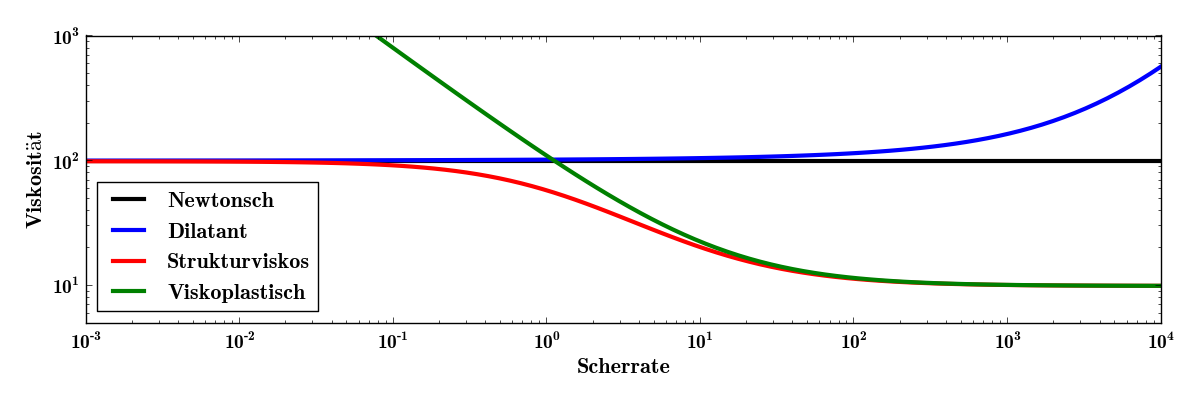
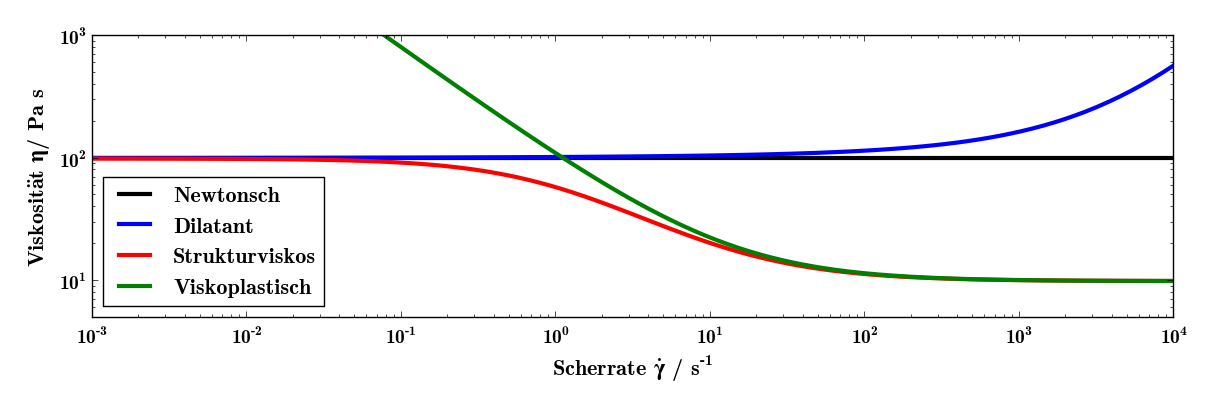
Final Version

Changed region(s): [[0.0, 0.06, 0.9867, 0.93], [0.925, 0.15, 0.9867, 0.24], [0.0, 0.6, 0.0308, 0.66]]

diff --git a/Chapters/auspressgeraet.tex b/Chapters/auspressgeraet.tex
@@ -125,14 +125,14 @@ In den Simulationen wurden der Mischer und die FEP separat behandelt, da dadurch
 
 \subsubsection{Funktionsersatzprüfung}
 Bei der FEP wurden acht Messungen, mit je zwei Mörteln, zwei Kolben"-ge"-schwindig"-kei"-ten und zwei Blendenkonfigurationen durchgeführt. 
-Eine Bei"-spiel"-kon"-fi"-gura"-tion mit Blendendurchmesser $\emptyset_A=10$ mm und $\emptyset_B=4$ mm ist in Abbildung~\ref{fig:fepSimResult} zu sehen.
+Eine Bei"-spiel"-kon"-fi"-gura"-tion mit Blendendurchmesser $\emptyset_A=\SI{10}{mm}$ und $\emptyset_B=\SI{4}{mm}$ ist in Abbildung~\ref{fig:fepSimResult} zu sehen.
 In Tabelle~\ref{fig:fepVergleich} sind die gemessenen und die simulierten Druck"-verluste über die Blende aufgeführt. Simulationen wurden mit den rein scherratenabhängigen Modellen durchgeführt. 
 Der Druckverlust wurde dabei jeweils auf der Seite gemessen, die der eingefüllten Mörtelkomponente entspricht.
 Das bedeutet, dass für die A Komponente die Messstelle auf der A Seite in Abbildung~\ref{fig:FEP_schema} verwendet wurde.
 %
 \begin{table}[tb]
 \noindent\makebox[\textwidth]{%
-    \begin{tabular}{l c c c r r r} 
+    \begin{tabular}{l c c c S S S} 
         \toprule[1.5pt]
         \multicolumn{4}{c}{\textbf{Messaufbau}} &
         \multicolumn{2}{c}{\textbf{Druckverlust}} &
@@ -144,47 +144,47 @@ Das bedeutet, dass für die A Komponente die Messstelle auf der A Seite in Abbil
      \cmidrule(lr){1-4}
      \cmidrule(lr){5-6}
      \cmidrule(lr){7-7}
-    \multirow{4}{*}{\moertelA{} A} &  \multirow{2}{*}{4} & \multirow{2}{*}{2} & 2.1 & 0.3 & 0.38  & 28\\
+     \multirow{4}{*}{\moertelA{} A} &  \multirow{2}{*}{\num{4}} & \multirow{2}{*}{\num{2}} & \num{2.1} & 0.3 & 0.38  & 28\\
                                                     %\cline{4-7}
-                              &                     &                    & 4   & 0.43 & 0.5  & 17\\
+                                                    &                     &                    & \num{4}   & 0.43 & 0.5  & 17\\
                               %\cline{2-7}
                               \addlinespace
-                              & \multirow{2}{*}{10} & \multirow{2}{*}{4} & 2.1 & 0.28 & 0.23 & 16\\
+                              & \multirow{2}{*}{\num{10}} & \multirow{2}{*}{\num{4}} & \num{2.1} & 0.28 & 0.23 & 16\\
                                                     %\cline{4-7}
-                              &                     &                    & 4   & 0.32 & 0.29 &  10\\
+                                                    &                     &                    & \num{4}   & 0.32 & 0.29 &  10\\
      \cmidrule(lr){2-4}
      \cmidrule(lr){5-6}
      \cmidrule(lr){7-7}
-    \multirow{4}{*}{\moertelA{} B} &  \multirow{2}{*}{4} & \multirow{2}{*}{2} & 2.1 & 0.77 & 0.38 & 51\\
+     \multirow{4}{*}{\moertelA{} B} &  \multirow{2}{*}{\num{4}} & \multirow{2}{*}{\num{2}} & \num{2.1} & 0.77 & 0.38 & 51\\
                                                     %\cline{4-7}
-                              &                     &                    & 4   & 0.89 & 0.45 & 50\\
+                                                    &                     &                    & \num{4}   & 0.89 & 0.45 & 50\\
                               %\cline{2-7}
                               \addlinespace
-                              & \multirow{2}{*}{10} & \multirow{2}{*}{4} & 2.1 & 0.53 & 0.29 & 45\\
+                              & \multirow{2}{*}{\num{10}} & \multirow{2}{*}{\num{4}} & \num{2.1} & 0.53 & 0.29 & 45\\
                                                     %\cline{4-7}
-                              &                     &                    & 4   & 0.58 & 0.33 & 42\\
+                                                    &                     &                    & \num{4}   & 0.58 & 0.33 & 42\\
      \cmidrule(lr){2-4}
      \cmidrule(lr){5-6}
      \cmidrule(lr){7-7}
-    \multirow{4}{*}{\moertelB{} A} &  \multirow{2}{*}{4} & \multirow{2}{*}{2}  & 2.1 & 0.37 & 0.26 &31\\
+     \multirow{4}{*}{\moertelB{} A} &  \multirow{2}{*}{\num{4}} & \multirow{2}{*}{\num{2}}  & \num{2.1} & 0.37 & 0.26 &31\\
                                                     %\cline{4-7}
-                              &                     &                    & 4   & 0.48 & 0.35 &26\\
+                                                    &                     &                    & \num{4}   & 0.48 & 0.35 &26\\
                               %\cline{2-7}
                               \addlinespace
-                              & \multirow{2}{*}{10} & \multirow{2}{*}{4} & 2.1 & 0.24 & 0.14 &40\\
+                              & \multirow{2}{*}{\num{10}} & \multirow{2}{*}{\num{4}} & \num{2.1} & 0.24 & 0.14 &40\\
                                                     %\cline{4-7}
-                              &                     &                    & 4   & 0.33 & 0.18 &44\\
+                                                    &                     &                    & \num{4}   & 0.33 & 0.18 &44\\
      \cmidrule(lr){2-4}
      \cmidrule(lr){5-6}
      \cmidrule(lr){7-7}
-    \multirow{4}{*}{\moertelB{} B} &  \multirow{2}{*}{4} & \multirow{2}{*}{2}  & 2.1 & 0.41 & 0.31 &25\\
+     \multirow{4}{*}{\moertelB{} B} &  \multirow{2}{*}{\num{4}} & \multirow{2}{*}{\num{2}}  & \num{2.1} & 0.41 & 0.31 &25\\
                                                     %\cline{4-7}
-                              &                     &                    & 4   & 0.51 & 0.40 &22\\
+                                                    &                     &                    & \num{4}   & 0.51 & 0.40 &22\\
                               %\cline{2-7}
                               \addlinespace
-                              & \multirow{2}{*}{10} & \multirow{2}{*}{4} & 2.1 & 0.44 & 0.21 &53\\
+                              & \multirow{2}{*}{\num{10}} & \multirow{2}{*}{\num{4}} & \num{2.1} & 0.44 & 0.21 &53\\
                                                     %\cline{4-7}
-                              &                     &                    & 4   & 0.48 & 0.23 &51\\
+                                                    &                     &                    & \num{4}   & 0.48 & 0.23 &51\\
     \bottomrule[1.5pt]
 \end{tabular}}
     \caption{Die gemessenen und simulierten Konfigurationen der FEP mit den rein scherratenabhängigen Modellen. Der Druck wurde auf der Seite der entsprechenden Mörtelkomponente gemessen.}
@@ -196,7 +196,7 @@ Das bedeutet, dass für die A Komponente die Messstelle auf der A Seite in Abbil
     \rotatebox{90}{
     \includegraphics[width=0.5\textwidth]{figures/fepSim.PNG}
     }
-    \caption{Eine Simulation der Funktionsersatzprüfung. Unten die Druckverteilung mit eingezeichneten Stromlinien, oben die variable Vikosität. Schön zu sehen ist das blockartige Strömen des Mörtels im Einlaufkolben anhand des grossen roten Gebietes hoher Viskosität und die abrupte Abnahme der Viskosität in den Blenden.}
+    \caption{Eine Simulation der Funktionsersatzprüfung. Unten die Druckverteilung (blau: tief, rot: hoch) mit eingezeichneten Stromlinien, oben die variable Vikosität. Schön zu sehen ist das blockartige Strömen des Mörtels im Einlaufkolben anhand des grossen roten Gebietes hoher Viskosität und die abrupte Abnahme der Viskosität in den Blenden.}
     \label{fig:fepSimResult}
 \end{figure}
 
@@ -216,7 +216,7 @@ In Tabelle~\ref{fig:mischerVergleich} sind die gemessenen und die simulierten Dr
 %
 \begin{table}[tb]
 \noindent\makebox[\textwidth]{%
-    \begin{tabular}{l c r r r} 
+    \begin{tabular}{l c S S S} 
         \toprule[1.5pt]
         \multicolumn{2}{c}{\textbf{Messaufbau}} &
         \multicolumn{2}{c}{\textbf{Druckverlust}} & 
@@ -226,30 +226,30 @@ In Tabelle~\ref{fig:mischerVergleich} sind die gemessenen und die simulierten Dr
     \cmidrule(lr){1-2}
     \cmidrule(lr){3-4}
     \cmidrule(lr){5-5}
-    \multirow{2}{*}{\moertelA{} A}  & 2.1 & 4.48 & 4.26 & 5\\
+    \multirow{2}{*}{\moertelA{} A}  & \num{2.1} & 4.48 & 4.26 & 5\\
                                %\cline{2-5}
-                               & 4   & 6.86 & 6.09 &11\\
+                               & \num{4}   & 6.86 & 6.09 &11\\
     %\cmidrule(lr){1-2}
     %\cmidrule(lr){3-4}
     %\cmidrule(lr){5-5}
     \addlinespace
-    \multirow{2}{*}{\moertelA{} B}  & 2.1 & 1.60 & 1.95 &22\\
+    \multirow{2}{*}{\moertelA{} B}  & \num{2.1} & 1.60 & 1.95 &22\\
                                %\cline{2-5}
-                               & 4   & 2.16 & 2.48 &15\\
+                               & \num{4}   & 2.16 & 2.48 &15\\
     %\cmidrule(lr){1-2}
     %\cmidrule(lr){3-4}
     %\cmidrule(lr){5-5}
     \addlinespace
-    \multirow{2}{*}{\moertelB{} A}   & 2.1 & 2.43 & 2.98 &23\\
+    \multirow{2}{*}{\moertelB{} A}   & \num{2.1} & 2.43 & 2.98 &23\\
                                %\cline{2-5}
-                               & 4   & 3.95 & 4.49 &14\\
+                               & \num{4}   & 3.95 & 4.49 &14\\
     %\cmidrule(lr){1-2}
     %\cmidrule(lr){3-4}
     %\cmidrule(lr){5-5}
     \addlinespace
-    \multirow{2}{*}{\moertelB{} B}   & 2.1 & 1.20 & 1.49 &24\\
+    \multirow{2}{*}{\moertelB{} B}   & \num{2.1} & 1.20 & 1.49 &24\\
                                %\cline{2-5}
-                               & 4   & 1.84 & 2.13 &16\\
+                               & \num{4}   & 1.84 & 2.13 &16\\
     \bottomrule[1.5pt]
 \end{tabular}}
     \caption{Die gemessenen und simulierten Konfigurationen des Mischers mit den rein scherratenabhängigen Modellen. Die angegebene Einlassgeschwindigkeit entspricht dabei der Kolbengeschwindigkeit in der FEP.}
@@ -265,3 +265,4 @@ In Tabelle~\ref{fig:mischerVergleich} sind die gemessenen und die simulierten Dr
 %
 Die Abweichungen bei der Simulation des Mi\-schers sind, relativ gesehen, deutlich geringer als beim Druckverlust über die Blen\-den in der FEP. Einer der Gründe dafür ist, dass die Scherraten nun in einem Bereich sind, der auch vermessen wurden. 
 Zudem ist die Messunsicherheit bei diesen Messungen deutlich geringer.
+%Die Gründe für die verbleibenden Abweichungen konnten nicht restlos geklärt werden. Mögliche Ursachen sind die Einflüsse von Temperatur und Lagerdauer auf die viskosen Eigenschaften der Mörtel.

diff --git a/Chapters/modelparameter.tex b/Chapters/modelparameter.tex
@@ -133,7 +133,7 @@ Dieser Vorgang ist in Abbildung~\ref{fig:korrekturSim} verdeutlicht.
         \node[block] (init) {Messung};
         \node[block, below of=init] (cfd) {Simulation};
         \path (init) -- (cfd) node[midway] (m) {};
-        \node[cloud, right of=m] (d) {d};
+        \node[cloud, right of=m] (d) {$\Delta$M};
         \node[cloud, left of=m] (omeg) {$\omega$};
         \node[block, text width=10em, node distance = 4cm, right of=d] (opt) {Optimierung};
         %
@@ -156,10 +156,8 @@ Beim Platte-Platte Rheometer handelt es sich um eine rotationssymmetrische Geome
     %\includegraphics[width=\textwidth]{figures/plattenRheoFullCircAnnot.png}
     \subfloat[Ohne Ring]{
     \begin{tikzpicture}[scale=0.7]
-        \draw[fill=lightgray] (0,0) -- ++ (5,0) -- ++ (0,2) -- ++ (-5,0) -- ++ (0,-2);
-        \draw[ultra thick,<->] (1,0) -- (0,0) -- (0,1);
-        \node[left] at (0,1) {z};
-        \node[below] at (1,0) {r};
+        \draw[fill=lightgray] (0,0) rectangle (5,2);
+        \draw[ultra thick,<->] (1,0) node[below] {r} -| (0,1) node[left] {z};
         \node[below] at (3,0) {$\u=0$};
         \node[below] at (5,0) {R};
         \node[right] at (5,1) {$\frac{\partial\u}{\partial r}=0$};
@@ -169,13 +167,9 @@ Beim Platte-Platte Rheometer handelt es sich um eine rotationssymmetrische Geome
     }
     \subfloat[Mit Ring]{
     \begin{tikzpicture}[scale=0.7]
-        \path[fill=lightgray] (0,0) -- ++ (5,0) -- ++ (0,2) -- ++ (-5,0) -- ++ (0,-2);
-        \draw[fill=lightgray] (5,0) -- ++ (1,0) -- ++ (0,2) -- ++ (-1,0) ;
-        \draw (0,0) -- ++ (5,0) -- ++ (0,2) -- ++ (-5,0) -- ++ (0,-2);
-        %\draw (6,0) -- (6,2);
-        \draw[ultra thick,<->] (1,0) -- (0,0) -- (0,1);
-        \node[left] at (0,1) {z};
-        \node[below] at (1,0) {r};
+        \draw[fill=lightgray] (0,0) rectangle (6,2);
+        \draw[gray, dashed] (5,0) -- ++ (0,2);
+        \draw[ultra thick,<->] (1,0) node[below] {r} -| (0,1) node[left] {z};
         \node[below] at (3,0) {$\u=0$};
         \node[below] at (5,0) {R};
         \node[below right] at (6,0) {R+S};
@@ -398,7 +392,7 @@ Dabei wurden sowohl Simulationen mit dem rein scherratenabhängigen Herschel-Bul
 
 \paragraph{Scherratenabhängiges Modell}
 Die Simulationen mit dem scherratenabhängigen Modell wurden aufgrund der rotationssymmetrischen Geometrie ebenfalls nur für ein Segment von fünf Grad des Rheometers durchgeführt, die Randbedingungen waren dabei eine konstante Geschwindigkeit am Einlass, konstanter Druck am Auslass und Haftbedingungen an den Wänden. 
-Das verwendete Netz wurde so skaliert, dass die Auflösung nahe an der Einlassdüse zur Kapillare sehr fein aufgelöst ist, während in Regionen die weit von der Düse entfernt sind, eine eher grobe Auflösung verwendet wurde. 
+Das verwendete Netz, erstellt mit \codeemph{blockMesh}, wurde so skaliert, dass die Auflösung nahe an der Einlassdüse zur Kapillare sehr fein aufgelöst ist, während in Regionen die weit von der Düse entfernt sind, eine eher grobe Auflösung verwendet wurde. 
 In Abbildung~\ref{fig:kapRheoSim} sind diese Informationen dargestellt, die Resultate sind in Tabelle \ref{fig:kapRheoResults} aufgeführt.\\
 Für die beiden \moertelB{} Komponenten und die \moertelA{} A Komponente konnte eine gute Über"-einstimmung mit den Messwerten mit unter 10\% Ab\-wei\-chung erreicht werden. Beim \moertelA{} B Mörtel konnte diese Genauigkeit nicht erreicht werden. Ein möglicher Grund ist die schlechtere Qualität des Parameterfits für diesen Mörtel.
 %
@@ -464,7 +458,7 @@ Für die beiden \moertelB{} Komponenten und die \moertelA{} A Komponente konnte 
                                   & 1.07 & 1.46 & 1.53 &  4.74\\
                                   & 2.67 & 2.42 & 2.54 &  4.53\\
                                   & 6.02 & 4.22 & 4.09 &  3.13\\
-                                  & 13.4 & 6.27 & 6.59 &  4.76\\
+                                  & 13.37 & 6.27 & 6.59 &  4.76\\
         \cmidrule(lr){1-2}
         \cmidrule(lr){3-4}
         \cmidrule(lr){5-5}
@@ -496,7 +490,7 @@ Für die beiden \moertelB{} Komponenten und die \moertelA{} A Komponente konnte 
 \end{table}
 
 \paragraph{Viskoelastisches Modell}
-Für die viskoelastischen Simulationen konnte nicht nur ein Segment des Kapillarrheometers verwendet werden, da die 'wedge'-Randbedingung \footnote{Randbedingung, die von \openfoam{} für Front und Rückseite einer rotationssymmetrischen Geometrie verwendet wird.} von \openfoam{} die Resultate verfälschte. Daher wurde ein Netz des ganzen Rheometers erstellt und die Simulationen damit durchgeführt.
+Für die viskoelastischen Simulationen konnte nicht nur ein Segment des Kapillarrheometers verwendet werden, da die 'wedge'-Randbedingung \footnote{Randbedingung, die von \openfoam{} für Front und Rückseite einer rotationssymmetrischen Geometrie verwendet wird.} von \openfoam{} die Resultate verfälschte. Daher wurde mit \codeemph{blockMesh} ein Netz des ganzen Rheometers erstellt und die Simulationen damit durchgeführt.
 
 Der für viskoelastische Fluide typische Wirbel bei einer plötzlichen Verengung der Fliessgeometrie \cite{Evans198611} konnte so erfolgreich nachgebildet werden. Abbildung~\ref{kapRheoVisco} zeigt das Auftreten dieses Wirbels in einer Kapillarrheometer Simulation.
 %
@@ -510,7 +504,7 @@ Der für viskoelastische Fluide typische Wirbel bei einer plötzlichen Verengung
     \includegraphics[width=\textwidth]{figures/kapRheoSimTau.PNG}
     \label{fig:kapRheoVisco:subB}
     }
-    \caption{Viskoelastische Simulation des Kapillarrheometers. Die Vergrösserung in \subref{fig:kapRheoVisco:subA} zeigt den sich bildenden Wirbel in der laminaren Strömung, der auf die Visko\-elastizität zurückzuführen ist. Das Rheometer ist nach dem Druckverlauf eingefärbt (blau: tief, rot: hoch). Abbildung~\subref{fig:kapRheoVisco:subB} ist nach der berechneten Schubspannung eingefärbt. In der Kapillare nimmt sie in radialer Richtun zu, beim Einlass bildet sich ein Gebiet erhöhter Schubspannung durch die Verengung des Querschnittes.}
+    \caption{Viskoelastische Simulation des Kapillarrheometers. Die Vergrösserung in \subref{fig:kapRheoVisco:subA} zeigt den sich bildenden Wirbel in der laminaren Strömung, der auf die Visko\-elastizität zurückzuführen ist. Das Rheometer ist nach dem Druckverlauf eingefärbt (blau: tief, rot: hoch). Abbildung~\subref{fig:kapRheoVisco:subB} ist nach der berechneten Schubspannung eingefärbt (blau: tief, rot: hoch). In der Kapillare nimmt sie in radialer Richtung nach aussen zu, am Einlass in die Drossel bildet sich ein Gebiet erhöhter Schubspannung durch die Verengung des Querschnittes.}
     \label{kapRheoVisco}
 \end{figure}
 %

diff --git a/Chapters/outlook.tex b/Chapters/outlook.tex
@@ -1,29 +1,27 @@
 \section{Zusammenfassung und Ausblick}
 \label{Kapitel:Outlook}
-In dieser Arbeit wurden zwei von der Firma Hilti AG in der Befestigungs"-technik verwendete Mörtel mittels numerischer Simulationen untersucht.
-Ziel der Arbeit war, die Fliess"-vorgänge dieser rheologisch komplexen Mörtel mithilfe der Simulationssoftware \openfoam{} zu modellieren. Die Ergebnisse sollen das für die Produktentwicklung entscheidende Verständnis dieser Fliess"-vorgänge verbessern.
+In dieser Arbeit wurden zwei von der Firma Hilti AG in der Befestigungs"-technik hergestellte Mörtel mittels numerischer Simulationen untersucht.
+Ziel der Arbeit war, die Fliess"-vorgänge dieser rheologisch komplexen Mörtel mithilfe der freien Simulationssoftware \openfoam{} abzubilden. Die Er"-gebnisse sollen das für die Produktentwicklung entscheidende Verständnis dieser Fliess"-vorgänge weiter verbessern.
 
 Die untersuchten Mörtel zeigen dabei ein stark nicht-Newtonsches Verhalten.
 Dies äussert sich sowohl in einer Scherverdünnung (Struktur"-vis"-ko"-si"-tät), als auch in viskoelastischen Phänomenen. Zur Modellierung dieser Eigenschaften wurden die empirischen Modelle Herschel-Bulkley, Carreau-Yasuda und White-Metzner verwendet.
-Die grundlegenden Gleichungen, bestehend aus den Erhaltungssätzen für Masse und Impuls und den aus den Modellen resultierenden Schliessungsansätzen, wurden numerisch gelöst. Die benötigten Ergänzungen sowie die speziellen rheologischen Schliessungsansätze wurden in \openfoam{} implementiert.
-%Der Firma Hilti steht mit den programmierten Routinen ein Grundgerüst zur Verfügung, mit dem sie in Zukunft weitere Materialmodelle und -para"-me"-ter verwenden kann, um die Fliessvorgänge in ihrem Auspressgerät noch besser zu verstehen.
+Die grundlegenden Gleichungen, bestehend aus den Erhaltungssätzen für Masse und Impuls und den aus den Modellen resultierenden Schliessungsansätzen, wurden numerisch mit \openfoam{} gelöst. Die benötigten Ergänzungen sowie die speziellen rheo"-logischen Schliessungsansätze wurden dort implementiert.
 
 Die für die Modelle notwendigen Materialparameter wurden mithilfe eines in Python implementierten Optimierungsverfahrens an Messdaten angepasst. Diese Daten stammen aus zwei verschiedenen Rheometern: Einem Platte-Platte Rheometer und einem Kapillarrheometer.
 Ein systematischer Fehler in den Platte-Platte Rheometerdaten durch einen um den Scherspalt herum montierten Ring wurde durch eine entsprechende Korrektursimulation ausgeglichen.
-Die Verifizierung der verwendeten Modelle und der berechneten Parameter geschah mittels Simulation des Kapillarrheometers, bei der eine gute Übereinstimmung mit der Messung gefunden wurde.
-Dabei wurde auch festgestellt, dass der Einfluss der Viskoelastizität minimal ist und andere Faktoren wie Alter und Produktionscharge die viskosen Eigenschaften des Mörtels weit stärker beeinflussen. 
+Die Verifizierung der verwendeten Modelle und der berechneten Parameter geschah mittels Simulation des Kapillarrheometers. Dies lieferte eine gute Übereinstimmung mit der Messung.
+Dabei wurde auch festgestellt, dass der Einfluss der Viskoelastizität minimal ist und andere Faktoren wie Temperatur und Lagerdauer die viskosen Eigenschaften des Mörtels weit stärker beeinflussen. 
 Aufgrund des starken Anstieges der Rechenzeit bei der Verwendung des viskoelastischen Modells wurde dieses deshalb bei der Validierung in Kapitel~\ref{Kapitel:Auspressgeraet} nicht mehr verwendet.
 
 Die Validierung geschah anhand eines anwendungsnahen Strömungsversuches. Dabei wurde eine vereinfachte Nachbildung des realen Auspressgerätes für die Hilti Mörtel gebaut und vermessen, um Einflüsse, die ihren Ursprung nicht in Eigenschaften des Fluids haben, auszuschliessen.
-Die Geo\-me\-trie dieser Funktionsersatzprüfung und der daran anschliessende Mischer wurde im CAD nachgebildet und für die Strömungssimulation mit ICEM Tetra vernetzt.
-
+Die Geo\-me\-trie dieser Funktionsersatzprüfung und der daran anschliessende Mischer wurden im CAD nachgebildet und für die Strömungssimulation mit ICEM Tetra vernetzt.
 Als beobachtete Grösse wurde der Druckverlust über die Blenden in der FEP und über den Mischer verwendet.
-Die Resultate in der FEP zeigen ein tendenziell richtiges Verhalten, eine genaue Nachbildung des Druckunterschiedes konnte aber nicht erreicht werden. 
-Ein möglicher Grund für die festgestellten Abweichungen zwischen Simulation und Messung ist die hohe Unsicherheit in der Druckverlustmessung über die Blende. Dafür spricht auch die deutlich kleinere Abweichung bei der Simulation des Mischers.
-%Weiter wurde im Laufe der Messungen festgestellt, dass die viskosen Eigenschaften der vermessenen Mörtel stark beinflusst werden von Alter, Temperatur und Produktionscharge.
+
+Die Resultate in der FEP zeigen qualitativ das richtige Verhalten. Der Druckverlust in der Funktionsersatzprüfung konnte jedoch nicht zufriedenstellend abgebildet werden. 
+Ein möglicher Grund für die festgestellten Abwei"-chungen zwischen Simulation und Messung ist die hohe Unsicherheit in der Druckverlustmessung über die Blende. Dafür spricht auch die deutlich kleinere Abweichung bei der Simulation des Mischers.
 Nicht weiter untersucht wurden in dieser Arbeit die thixotropen Eigenschaften der vermessenen Mörtel. 
-Diese können ebenfalls einen Einfluss auf die Messergebnisse haben, auch wenn im Messaufbau versucht wurde diese Einflüsse zu minimieren.
+Diese können ebenfalls einen Einfluss auf die Messergebnisse haben, auch wenn im Messaufbau versucht wurde diese Einflüsse zu mi\-ni\-mie\-ren.
 Eine mögliche Erweiterung dieser Arbeit ist deshalb die Berücksichtigung von thixotropen Effekten.
 
-Falls trotz des kleinen Einflusses auf den Druckunterschied beschlossen wird, das viskoelastische Modell zu verwenden, muss der verwendete Algorithmus im Hinblick auf die Effizienz und Stabilität noch optimiert werden. Die benötigte Anzahl an Iterationsschritten ist zu gross, um Parameterstudien durchführen zu können.
+Falls trotz des kleinen Einflusses auf den Druckunterschied beschlossen wird, das viskoelastische Modell zu verwenden, muss der verwendete Algorithmus im Hinblick auf Effizienz und Stabilität noch optimiert werden. Die benötigte Anzahl an Iterationsschritten ist zu gross, um Parameterstudien durchführen zu können.
 

diff --git a/Chapters/implementation.tex b/Chapters/implementation.tex
@@ -59,19 +59,18 @@ In transienten Simulationen kann keine Relaxation angewendet werden. Um die Stab
 %
 \subsection{Konvergenzkriterien}
 Die für Simulationen normalerweise verwendeten Residuen des Druck- und Geschwindigkeitsfeldes können in Berechnungen mit variabler Viskosität nicht ohne weiteres als Konvergenzkriterium verwendet werden.
-Die Kopp\-lung von Geschwindigkeit und Viskosität führt dazu, dass die Lösung sich teilweise nur noch in kleinen Regionen um kleine Beträge ändert, diese Änderung sich aber durchaus noch über eine grosse Anzahl von Schritten fortsetzen kann
-(Abbildung~\ref{fig:platRheoNu}).
+Die Kopp\-lung von Geschwindigkeit und Viskosität führt dazu, dass die Lösung sich teilweise nur noch in kleinen Regionen um kleine Beträge ändert, diese Änderung sich aber durchaus noch über eine grosse Anzahl von Schritten fortsetzen kann. Dieser Effekt ist in Abbildung~\ref{fig:platRheoNu} verdeutlicht.
 \begin{figure}
     \centering
-    \subfloat[Die Viskosität nach 600 Schritten]{
+    \subfloat[Viskosität nach 600 Schritten]{
     \includegraphics[width=0.45\textwidth]{figures/platRheoNu1.PNG}
     \label{fig:platRheoNu:subA}
     }
-    \subfloat[Die Viskosität nach 10000 Schritten]{
+    \subfloat[Viskosität nach 10000 Schritten]{
     \includegraphics[width=0.45\textwidth]{figures/platRheoNu2.PNG}
     \label{fig:platRheoNu:subB}
     }
-    \caption{Die Viskositätsverteilung im Platte-Platte Rheometer (Kapitel~\ref{Kapitel:Rheometer}) zu unterschiedlichen Zeitpunkten. Bereits nach 600 Schritten ist die Änderung zwischen zwei Schritten sehr klein, da die Viskosität sich nur noch unmittelbar an der in \subref{fig:platRheoNu:subA} zu sehenden Grenze ändert. Trotzdem unterscheidet sich das konvergierte Resultat in \subref{fig:platRheoNu:subB} deutlich von der noch nicht konvergierten Lösung.}
+    \caption{Die Viskositätsverteilung (blau: niedrig, rot: hoch) im Platte-Platte Rheometer (Kapitel~\ref{Kapitel:Rheometer}) mit $\omega=\SI{10}{rad.s^{-1}}$ zu unterschiedlichen Zeitpunkten. Bereits nach 600 Schritten ist die Änderung zwischen zwei Schritten sehr klein, da die Viskosität sich nur noch unmittelbar an der in \subref{fig:platRheoNu:subA} zu sehenden Grenze ändert. Trotzdem unterscheidet sich das konvergierte Resultat in \subref{fig:platRheoNu:subB} deutlich von der noch nicht konvergierten Lösung.}
     \label{fig:platRheoNu}
 \end{figure}
 Daher wurde in der vorliegenden Arbeit statt der Residuen das Verhalten der aus den verwendeten Randbedingungen resultierenden Be"-ob"-ach"-tungs"-grös"-sen als Konvergenzkriterium verwendet.
@@ -83,7 +82,7 @@ Bei Simulationen mit einem am Einlass vorgegebenen Volumenstrom, wie beim Kapill
 \end{equation}
 %
 
-In Kapitel \ref{Kapitel:Korrektursimulation} wird beschrieben wie die Viskosität des Mörtels anhand des Drehmomentes in einem Platte-Platte Rheometer bestimmt wird. In diesen Simulationen ist die beobachtete Grösse nicht der Druck, sondern das resultierende Drehmoment.
+Für das Platte-Platte Rheometer ist die beobachtete Grösse nicht der Druck, sondern das resultierende Drehmoment.
 Um dieses aus den berechneten Grössen zu ermitteln wird an den vom Nutzer bestimmten Flächen $A_i$ über die Schubspannung integriert:
 %
 \begin{equation}
@@ -95,6 +94,8 @@ Dabei ist
 \end{equation}
 die Schubspannung an der Wand und $r$ der Abstand zum Rotationszentrum.
 Die Auswertung dieser Werte erfolgt in jedem Iterationsschritt. Die Änderung zwischen zwei Iterationsschritten kann dann als Konvergenzkriterium verwendet werden.
+In Kapitel \ref{Kapitel:Parameter:PlattePlatteRheo} wird beschrieben wie die Viskosität des Mörtels anhand des Drehmomentes in einem Platte-Platte Rheometer bestimmt wird. 
+
 
 Werden die Änderungen von Beobachtungsgrössen als Konvergenzkriterium verwendet, muss darauf geachtet werden, dass nicht nur die erste, sondern auch die zweite Ableitung mit einbezogen wird. Andernfalls ist es möglich, dass die Simulation zu früh gestoppt wird. Falls die beobachteten Werte zu Beginn der Simulation hin und her schwingen, nimmt die erste Ableitung in den Maxima und Minima ebenfalls sehr kleine Werte an, obwohl noch keine Konvergenz erreicht ist.
 Die Ableitungen der beobachteten Werte wurden in dieser Arbeit mittels Finiten Differenzen berechnet:

diff --git a/Chapters/abstract.tex b/Chapters/abstract.tex
@@ -8,7 +8,7 @@ Zur Simulation des Fliessverhaltens wurden die Navier-Stokes Gleichungen numeris
 %Um diese Modelle in einen Computercode einzubauen, wird ein flexibles Simulationsprogramm benötigt.
 Aus diesem Grund wurde in dieser Arbeit die Bibliothek \openfoam{} verwendet, die das Einbauen von eigenen numerischen Verfahren ermöglicht.
 
-Die für die Anpassung der Modelle an die jeweiligen Materialien erforderlichen Parameter wurden mithilfe einer Optimierungsmethode an Messergebnisse angepasst. Die dafür notwendigen Messdaten stammten von zwei verschiedenen Rheometern, einem Platte-Platte Rheometer und einem Kapillarrheometer. Die Messungen des Platte-Platte Rheometers weisen durch einen in der internen Berechnung nicht berücksichtigten Ring einen systematischen Messfehler auf. Mittels einer Korrektursimulation wurde dieser Einfluss herausgerechnet. Die dazu notwendige Kopplung mit \openfoam{} sowie der Optimierungscode wurde in Python realisiert.
+Die für die Anpassung der Modelle an die jeweiligen Materialien erforderlichen Parameter wurden mithilfe einer Optimierungsmethode an Messergebnisse angepasst. Die dafür notwendigen Messdaten stammten von zwei verschiedenen Rheometern, einem Platte-Platte Rheometer und einem Kapillarrheometer. Die Messungen des Platte-Platte Rheometers weisen durch einen in der internen Berechnung nicht berücksichtigten Ring einen systematischen Messfehler auf. Mittels einer Korrektursimulation wurde dieser Einfluss herausgerechnet. Die dazu not\-wen\-di\-ge Kopplung mit \openfoam{} sowie der Optimierungscode wurde in Python realisiert.
 
 Die berechneten Materialdaten wurden mittels Simulation des Kapillarrheometers verifiziert. Anschliessend wurde eine Validierung anhand eines anwendungsnahen Strömungsversuches durchgeführt. Dieser bestand aus einer Funktionsersatzprüfung des realen Hilti Auspressgerätes und einem daran angeschlossenen statischen Mischer.
 \end{abstr}

diff --git a/Chapters/numerik.tex b/Chapters/numerik.tex
@@ -8,7 +8,7 @@ Dabei wird abwechselnd eine Aktualisierung des Druck- und des Ge\-schwin\-dig\-k
 Ein Iterationsschritt des SIMPLE Algorithmus kann dabei wie folgt zusammengefasst werden:
 %
 \begin{outline}[enumerate]
-    \1 Schätze ein Druckfeld $p^*$ mithilfe von $\u$.
+    \1 Starte mit einem Druckfeld $p^*$.
     \1 Berechne ausgehend von $p^*$ ein Geschwindigkeitsfeld $\u^*$ mit Hilfe der (stationären) Impulsgleichung.
     \1 Berechne eine Druckkorrektur $p'$ durch das Lösen der Druckkorrekturgleichung $\nabla^2p=-\nabla \cdot \left( \u^*\cdot\nabla \right)\u^*$.
     \1 Berechne ein neues Druckfeld $p^{**}=p^*+\alpha p'$, wobei $\alpha \in (0,1]$ ein Unterrelaxationsparameter \footnote{Unterrelaxation bezeichnet die bei der iterativen Lösung von nichtlinearen Problemen verwendete Dämpfung der Korrekturschritte.} ist.
@@ -22,11 +22,11 @@ Der \textbf{P}ressure \textbf{I}mplicit with \textbf{S}plit \textbf{O}perator (P
 Ähnlich wie der \mbox{SIMPLE} Algorithmus wird dabei zwischen Druck und Ge\-schwin\-dig\-keit iteriert. Die Hauptunterschiede sind, dass keine Unterrelaxation angewendet wird, und dass die Impulsgleichung mehrfach gelöst wird:
 %
 \begin{outline}[enumerate]
-    \1 Schätze ein Druckfeld $p^*$ mithilfe von $\u$.
+    \1 Starte mit einem Druckfeld $p^*$.
     \1 Ausgehend von $p^*$ berechne ein Geschwindigkeitsfeld $\u^*$ mit Hilfe der instationären Impulsgleichung.
     \1 Berechne eine Druckkorrektur $p'$ durch das Lösen der Druckkorrekturgleichung $\nabla^2p=-\nabla \cdot \left( \u^*\cdot\nabla \right)\u^*$.
     \1 Berechne ein neues Druckfeld $p^{**}=p^*+ p'$.
-    \1 Korrigiere die Geschwindigkeit um $\nabla \u=0$ zu erfüllen..
+    \1 Korrigiere die Geschwindigkeit um $\nabla \u=0$ zu erfüllen.
     \1 Die Schritte 3-5 werden pro Zeitschritt eine vom Anwender bestimmte Anzahl mal ausgeführt.
 \end{outline}
 %

diff --git a/thesis.tex b/thesis.tex
@@ -24,7 +24,7 @@ urlcolor=linkcol
 %% Begin the document
 %
 \begin{document}
-\hyphenation{Mi-schung kon-ti-nu-ier-liches wes-halb vo-llu-me-trische Win-kel zwi-schen Fliess-kur-ve dar-ge-stellt meh-re-ren Emp-fehl-ung rheo-lo-gisch wir-ken-der be-schrei-ben visko-elas-tisch visko-elas-tische visko-elas-tischen Mo-dell Mo-delle Glei-chung da-durch Me-tho-de ei-ner ge-mach-ten ei-gent-li-chen nach-ge-rech-net Pa-ra-me-ter Pa-ra-me-ter-fit Ma-ter-ial-mo-dell Rheo-me-ter Durch-mes-ser Si-mu-la-tion Mi-scher not-wen-dig sol-len Scher-ra-ten ka-pil-lar-rheo-me-ter Kol-ben-ge-schwin-dig-keit die-ser thix-o-tro-pen konn-te Ge-nau-ig-keit An-stie-ges Er-wei-te-rung Glei-chun-gen Kopp-lung Ka-pil-la-re Zeit-schritt mass-geb-lich}
+\hyphenation{Mi-schung kon-ti-nu-ier-liches wes-halb vo-llu-me-trische Win-kel zwi-schen Fliess-kur-ve dar-ge-stellt meh-re-ren Emp-fehl-ung rheo-lo-gisch wir-ken-der be-schrei-ben visko-elas-tisch visko-elas-tische visko-elas-tischen Mo-dell Mo-delle Glei-chung da-durch Me-tho-de ei-ner ge-mach-ten ei-gent-li-chen nach-ge-rech-net Pa-ra-me-ter Pa-ra-me-ter-fit Ma-ter-ial-mo-dell Rheo-me-ter Durch-mes-ser Si-mu-la-tion Mi-scher not-wen-dig sol-len Scher-ra-ten ka-pil-lar-rheo-me-ter Kol-ben-ge-schwin-dig-keit die-ser thix-o-tro-pen konn-te Ge-nau-ig-keit An-stie-ges Er-wei-te-rung Glei-chun-gen Kopp-lung Ka-pil-la-re Zeit-schritt mass-geb-lich an-ge-passt mi-ni-mal}
 \frontmatter
 
 \input{Chapters/titlepage}

diff --git a/Chapters/rheologie.tex b/Chapters/rheologie.tex
@@ -45,7 +45,7 @@ Dabei ist
 \end{equation}
 %
 Die Diagonalelemente von $\D$ enthalten die Dehngeschwindigkeiten von Linienelementen, die in Richtung der Basisvektoren orientiert sind. 
-Die Ne"-bendiagonalelemente sind die halbe Geschwindigkeit, mit der sich die Winkel zwischen zwei momentan zu den Basisvektoren parallelen Linienelemente ändern.
+Die Ne"-bendiagonalelemente sind die halbe Geschwindigkeit, mit der sich die Winkel zwischen zwei momentan zu den Basisvektoren parallelen Linienelementen ändern.
 Für eine einfache Schichtenströmung, so wie in Abbildung~\ref{fig:schichtenstroemung} dar"-ge"-stellt, ergibt sich zum Beispiel der besonders einfache Zusammenhang 
 %
 \begin{equation}

diff --git a/figures/modHbPlot.py b/figures/modHbPlot.py
@@ -47,10 +47,11 @@ font = {'family' : 'normal',
         'size'   : fontSizeLegend}
 
 matplotlib.rc('font', **font)
+pylab.rcParams['mathtext.default']='regular'
 
 legend(loc='lower left', prop={'size':fontSizeLegend})
-xlabel('Scherrate')
-ylabel("Viskosit$\ddot{\mathbf{\mathrm{a}}}$t")
+xlabel('Scherrate $\dot{\gamma}$ / $s^{-1}$')
+ylabel("Viskosit$\ddot{a}$t $\eta$/ Pa s")
 ylim([5e0,1e3])
 setp(ax.get_xticklabels(), fontsize=fontSizeTicks)
 setp(ax.get_yticklabels(), fontsize=fontSizeTicks)
